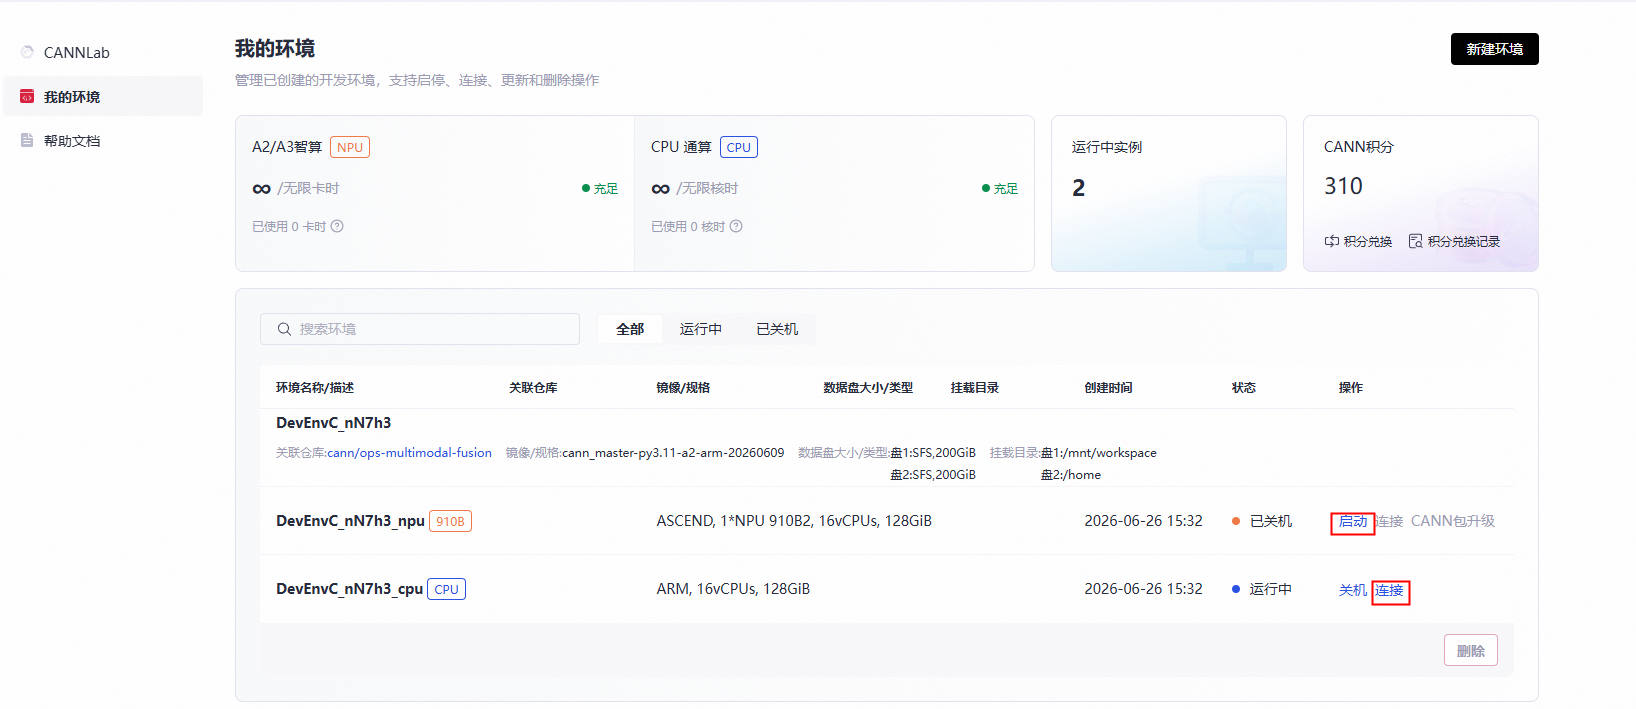
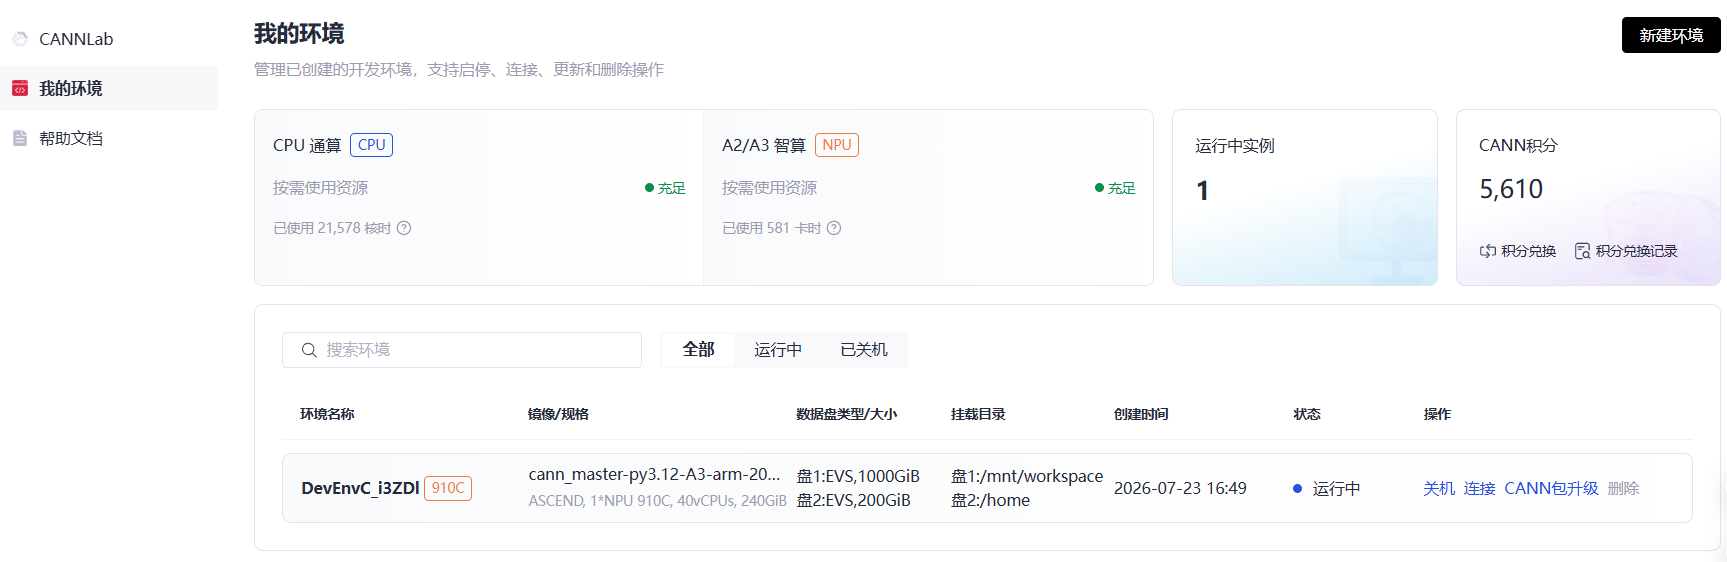
docs: update CANNLab V2 manual - modify some images
# message auto-generated for no-merge-commit merge:
!105 merge master into master

docs: update CANNLab V2 manual - modify some images

Created-by: xdmiao
Commit-by: xdmiao
Merged-by: cann-robot
Description: 
## 变更描述 / Description

<!-- 本 PR 做了什么，为什么需要 / What does this PR do and why -->

## 改动类型 / Change Type

- [ ] Bug 修复 / Bug Fix
- [ ] 新功能 / New Feature
- [ ] 性能优化 / Performance
- [ ] 代码重构 / Refactoring
- [ ] 文档更新 / Documentation
- [ ] 测试相关 / Test
- [ ] 其它 / Other

## 关联 Issue / Related Issues

<!-- Closes #000 可自动关闭 / Closes #000 to auto-close -->

- Closes #
- References #

## 测试信息 / Testing

<!-- 简要测试说明或关键结果 / Brief test description or key results -->

- [ ] 单元测试通过 / UT passed
- [ ] 集成测试通过 / ST passed
- [ ] 人工验证通过 / Manual verified

## 检查清单 / Checklist

- [ ] 代码符合规范 / Code follows style guide
- [ ] 测试添加并通过 / Tests added and passed
- [ ] 文档已更新 / Docs updated if needed
- [ ] 无硬编码敏感信息 / No secrets hardcoded
- [ ] 提交信息符合规范 / Commit message follows convention

See merge request: cann/infrastructure!105

diff --git a/docs/CANNLab/V2/sections_en/02-quick-start.en.md b/docs/CANNLab/V2/sections_en/02-quick-start.en.md
@@ -21,17 +21,19 @@
 
 ![CANN Open-Source Organization](https://raw.gitcode.com/cann/infrastructure/raw/master/docs/CANNLab/V2/images/01_cannlab_portal_v2.png)
 
-3. In the left navigation bar, switch to **My Environments** and click **New Environment** to create an NPU environment or a CPU environment.
+3. In the left navigation bar, switch to **My Environments** and click **New Environment** to create an NPU environment.
 
 ![CANNLab Entry](https://raw.gitcode.com/cann/infrastructure/raw/master/docs/CANNLab/V2/images/02_cannlab_create_v2.png)
 
-When creating an NPU development environment, select **NPU A2** or **NPU A3**. If you select a split image template, the system automatically creates a pair of CPU and NPU environments. These two environments point to the same physical environment, allowing you to switch between the NPU and CPU environments as needed.
+Please select the A2 or A3 environment as needed, and then choose the template and NPU specifications.
 
 ![CANNLab Entry](https://raw.gitcode.com/cann/infrastructure/raw/master/docs/CANNLab/V2/images/03_cannlab_createnpuenv_v2.png)
 
-After the environment is created, the CPU environment starts automatically. The NPU environment must be started manually when needed. After startup, you can connect to the development environment.
+After the environment is created, the NPU environment start automatically. You can perform operations such as power on/off, connect, CANN package upgrade, and delete on the **My Environment**.
 
 ![CANNLab Entry](https://raw.gitcode.com/cann/infrastructure/raw/master/docs/CANNLab/V2/images/04_cannlab_trnon_connectenv_v2.png)
+
+4. Through the above methods, you can create a CPU environment.
 
 ### 2.2.2 Use the Environment
 

diff --git a/docs/CANNLab/V2/sections_zh/02-快速入门.md b/docs/CANNLab/V2/sections_zh/02-快速入门.md
@@ -21,15 +21,19 @@
 
 ![CANN 开源组织](https://raw.gitcode.com/cann/infrastructure/raw/master/docs/CANNLab/V2/images/01_cannlab_portal_v2.png)
 
-3. 左侧导航栏切换到**我的环境**，点击**新建环境**可创建 NPU 环境或 CPU 环境
+3. 左侧导航栏切换到**我的环境**，点击**新建环境**可创建 NPU 环境，
 
 ![CANNLab 入口](https://raw.gitcode.com/cann/infrastructure/raw/master/docs/CANNLab/V2/images/02_cannlab_create_v2.png)
 
-当您选择创建一个 NPU 开发环境，即选 **NPU A2** 或者 **NPU A3**，如果选择分设版镜像模板，系统会自动帮您同时创建一对 CPU & NPU 环境，这两个环境指向同一个物理环境，可供用户按需灵活切换 NPU 环境和 CPU 环境。
+根据需要选择 A2 或者 A3 环境，选择模板和 NPU 规格，
+
 ![CANNLab 入口](https://raw.gitcode.com/cann/infrastructure/raw/master/docs/CANNLab/V2/images/03_cannlab_createnpuenv_v2.png)
 
-环境创建完成后，CPU 环境会自动启动，NPU 环境按需手动启动，启动后即可连接进入开发环境
+环境创建完成后，NPU 环境会自动启动，可以在**我的环境**页面进行开机/关机/连接/CANN包升级/删除操作。
+
 ![CANNLab 入口](https://raw.gitcode.com/cann/infrastructure/raw/master/docs/CANNLab/V2/images/04_cannlab_trnon_connectenv_v2.png)
+
+4. 通过以上方式可以创建 CPU 环境。
 
 ### 2.2.2 使用环境
 
